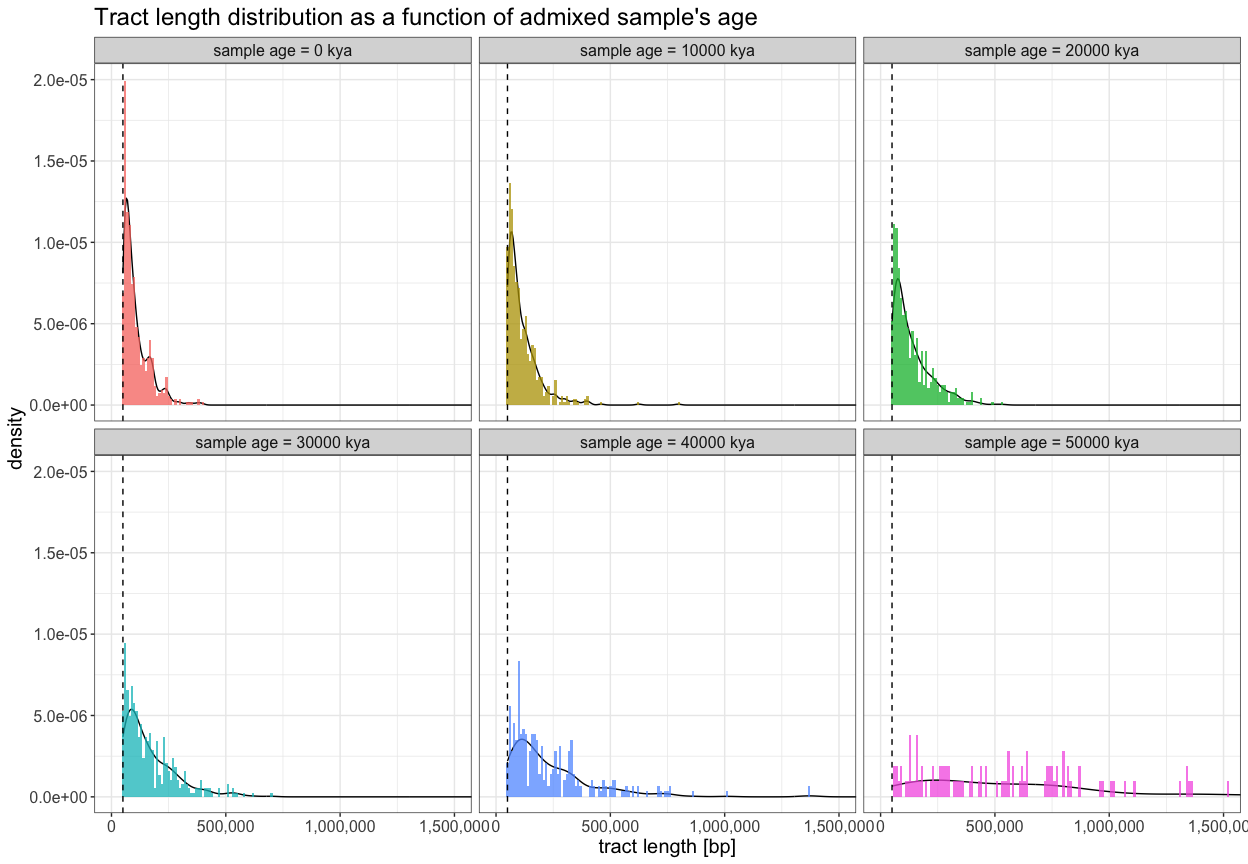
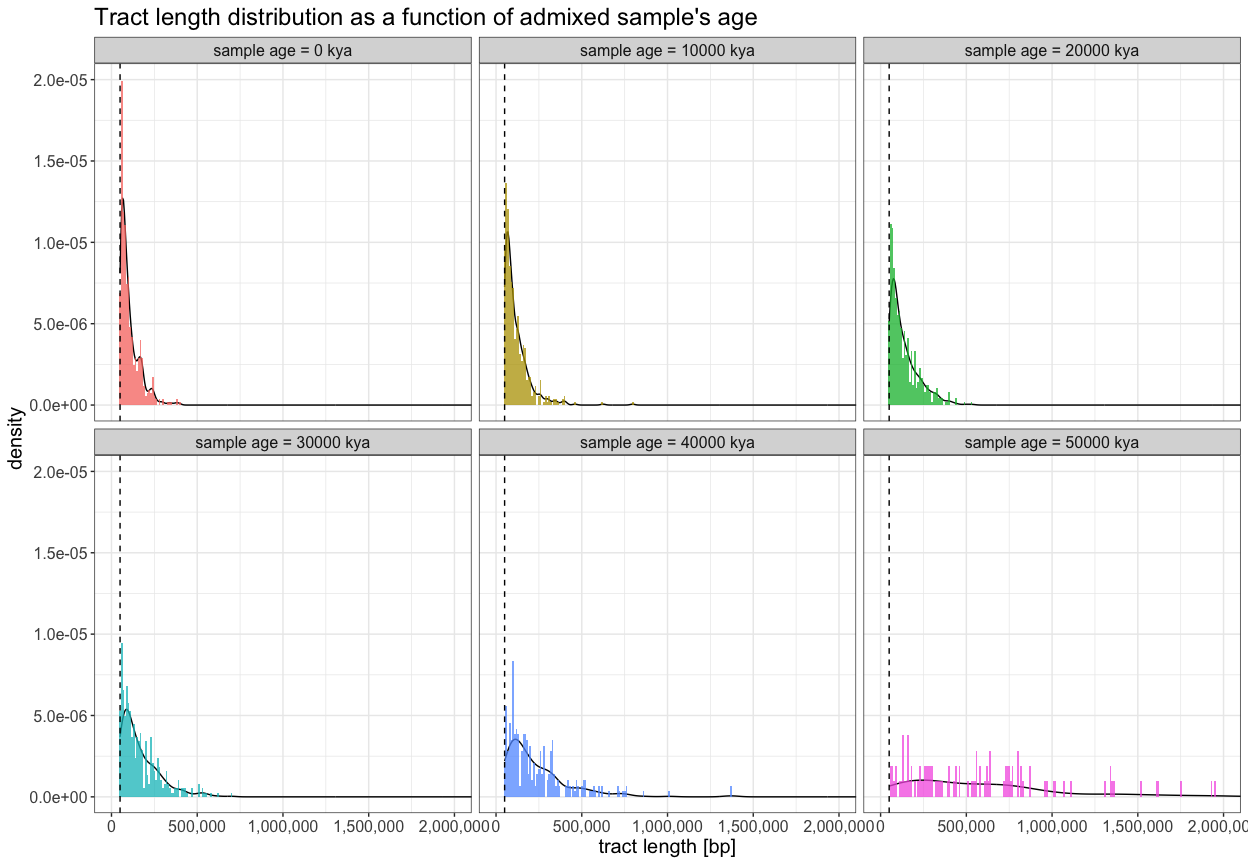
Make x-axis scales consitent

diff --git a/dating.md b/dating.md
@@ -98,7 +98,7 @@ ggplot() +
   ) +
   scale_x_continuous(labels = scales::comma) +
   expand_limits(y = 0) +
-  coord_cartesian(xlim = c(0, 1.5e6), ylim = c(0, 2e-5)) +
+  coord_cartesian(xlim = c(0, 2e6), ylim = c(0, 2e-5)) +
   theme_bw() +
   theme(legend.position = "none", text = element_text(size = 15)) +
   facet_wrap(~ sample_age, labeller = labeller(sample_age = function(x) paste("sample age =", x, "kya")))
@@ -123,7 +123,7 @@ ggplot() +
   geom_vline(xintercept = 50e3, linetype = 2) +
   scale_x_continuous(labels = scales::comma) +
   expand_limits(y = 0) +
-  coord_cartesian(xlim = c(0, 1.5e6), ylim = c(0, 2e-5)) +
+  coord_cartesian(xlim = c(0, 2e6), ylim = c(0, 2e-5)) +
   theme_bw() +
   theme(legend.position = "none", text = element_text(size = 15)) +
   facet_wrap(~ sample_age, labeller = labeller(sample_age = function(x) paste("sample age =", x, "kya")))
@@ -567,7 +567,7 @@ ggplot() +
   ) +
   scale_x_continuous(labels = scales::comma) +
   expand_limits(y = 0) +
-  coord_cartesian(ylim = c(0, 2e-5), xlim = c(0, 1e6)) +
+  coord_cartesian(ylim = c(0, 2e-5), xlim = c(0, 2e6)) +
   theme_bw() +
   theme(legend.position = "none", text = element_text(size = 15)) +
   facet_wrap(~ sample_age, labeller = labeller(sample_age = function(x) paste("sample age:", x)))
